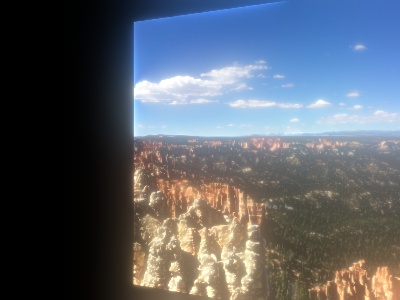
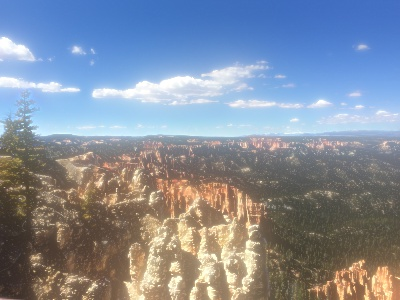
feathering

diff --git a/panorama-stitching/pyimagesearch/panorama.py b/panorama-stitching/pyimagesearch/panorama.py
@@ -32,56 +32,28 @@ class Stitcher:
 		warpedImageA = cv2.warpPerspective(imageA, H,
 			(imageA.shape[1] + imageB.shape[1], imageA.shape[0]))
 
-		result = multi_band_blending.multi_band_blending(imageB, warpedImageA, 30)
+		# result = multi_band_blending.multi_band_blending(imageB, warpedImageA, 30)
 
 
-		# result = warpedImageA
-		# result[0:imageB.shape[0], 0:imageB.shape[1]] = imageB
+		result = warpedImageA
+
+		PercentWidth = 0.95
+		for i in range(imageB.shape[1]):
+			for j in range(imageB.shape[0]):
+				if i >= PercentWidth*imageB.shape[1]:
+					if result[j][i][0] > 0 and result[j][i][1] > 0 and result[j][i][2] > 0:
+						result[j][i] = (0.4*result[j][i] + 0.6*imageB[j][i])
+
+				else:
+					result[j][i] = imageB[j][i]
 
 
 
-		# # Apply Image Pyramids
-		# G = warpedImageA.copy()
-		# gpA = [G]
-		# for i in range(6):
-		# 	G = cv2.pyrDown(gpA[i])
-		# 	gpA.append(G)
-        #
-		# G = imageB.copy()
-		# gpB = [G]
-		# for i in range(6):
-		# 	G = cv2.pyrDown(gpB[i])
-		# 	gpB.append(G)
-        #
-		# lpA = [gpA[5]]
-		# for i in range(5, 0, -1):
-		# 	size = (gpA[i - 1].shape[1], gpA[i - 1].shape[0])
-		# 	GE = cv2.pyrUp(gpA[i], dstsize = size)
-		# 	L = cv2.subtract(gpA[i - 1], GE)
-		# 	lpA.append(L)
-        #
-		# lpB = [gpB[5]]
-		# for i in range(5, 0, -1):
-		# 	size = (gpB[i - 1].shape[1], gpB[i - 1].shape[0])
-		# 	GE = cv2.pyrUp(gpB[i], dstsize = size)
-		# 	L = cv2.subtract(gpB[i - 1], GE)
-		# 	lpB.append(L)
-        #
-		# LS = []
-		# for la, lb in zip(lpA, lpB):
-		# 	rows, cols, dpt = la.shape
-		# 	colsd2 = int(cols/2)
-		# 	ls = np.hstack((la[:, 0:colsd2], lb[:, colsd2:]))
-		# 	LS.append(ls)
-        #
-		# ls_ = LS[0]
-		# for i in range(1, 6):
-		# 	size = (LS[i].shape[1], LS[i].shape[0])
-		# 	print(size)
-		# 	ls_ = cv2.pyrUp(ls_, dstsize = size)
-		# 	ls_ = cv2.add(ls_, LS[i])
-        #
-		# cv2.imwrite('Pyramid_blending2.jpg', ls_)
+
+		result[0:imageB.shape[0], 0:imageB.shape[1]] = imageB
+
+
+
 
 
 

diff --git a/panorama-stitching/multi_band_blending.py b/panorama-stitching/multi_band_blending.py
@@ -51,8 +51,9 @@ def GaussianPyramid(img, leveln):
 
 def LaplacianPyramid(img, leveln):
     LP = []
-    for i in range(leveln - 1):
-        next_img = cv2.pyrDown(LP[i])
+    for i in range(leveln - 1, 0, -1):
+        print(img.shape[1::-1])
+        next_img = cv2.pyrDown(img)
         LP.append(img - cv2.pyrUp(next_img, img.shape[1::-1]))
         img = next_img
     LP.append(img)
@@ -89,6 +90,7 @@ def multi_band_blending(img1, img2, overlap_w, leveln=None, flag_half=False):
         print("warning: inappropriate number of leveln")
         leveln = max_leveln
 
+    leveln = 6
     # Get Gaussian pyramid and Laplacian pyramid
     MP = GaussianPyramid(mask, leveln)
     LPA = LaplacianPyramid(subA, leveln)
